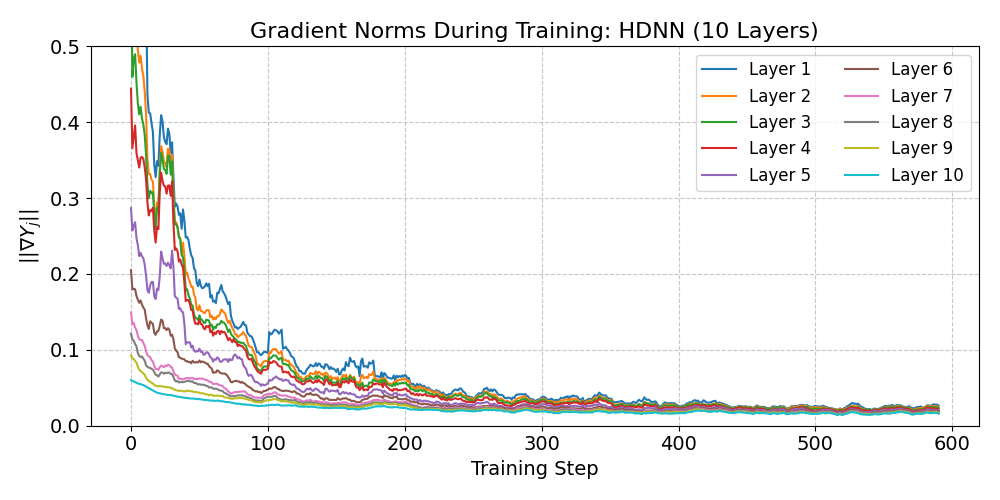
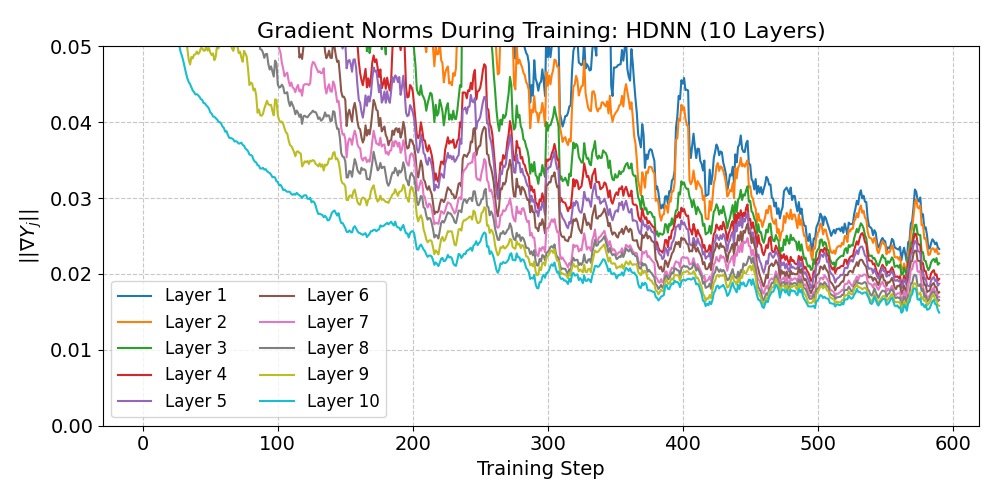
adding new dataset

diff --git a/examples/run_MNIST.py b/examples/run_MNIST.py
@@ -456,7 +456,7 @@ if __name__ == '__main__':
             model,
             save_path=f"mnist_grad_norms_{args.n_layers}_layers.png",
             title=f"Gradient Norms During Training: HDNN ({args.n_layers} Layers)",
-            ylim=(0, 0.5)
+            ylim=(0, 0.05)
             #label=f"({args.n_layers})"
         )
     
